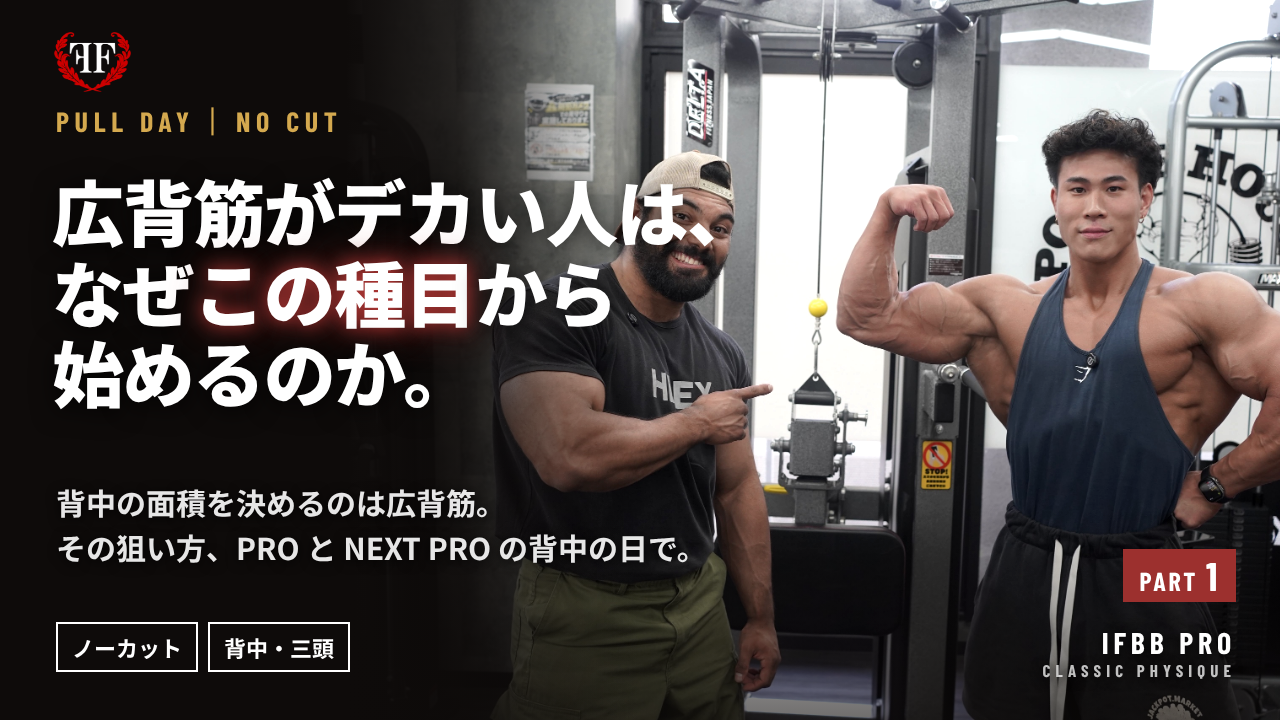
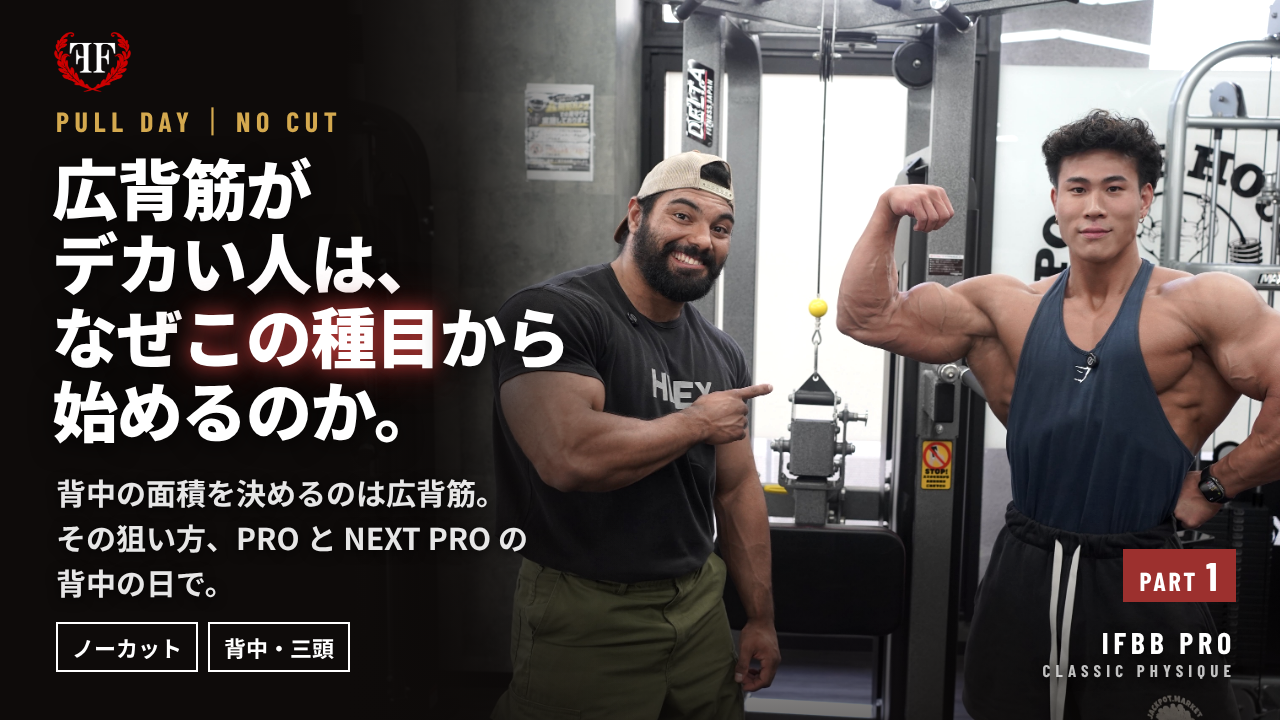
PULL DAY Part 1 thumbnail: clear Felipe's face (#78)
* Add UPPER DAY YouTube thumbnails (part 1, 2) and the series thumbnail template

Claude-Session: https://claude.ai/code/session_01HRty6kL8VRnpLHHHzSF3iS

* UPPER DAY thumbnails: reframe to keep the face visible and hide the burned-in caption

Claude-Session: https://claude.ai/code/session_01HRty6kL8VRnpLHHHzSF3iS

* UPPER DAY thumbnails v2: loud yellow/red creator style, distinct from the community look

Claude-Session: https://claude.ai/code/session_01HRty6kL8VRnpLHHHzSF3iS

* UPPER DAY thumbnails v3: competition roar photo plus gym face chip

Claude-Session: https://claude.ai/code/session_01HRty6kL8VRnpLHHHzSF3iS

* UPPER DAY thumbnails: soften hook to Felipe's voice

Claude-Session: https://claude.ai/code/session_01HRty6kL8VRnpLHHHzSF3iS

* UPPER DAY thumbnails: keep the hook line on one row

Claude-Session: https://claude.ai/code/session_01HRty6kL8VRnpLHHHzSF3iS

* UPPER DAY thumbnails: hook label on one line

Claude-Session: https://claude.ai/code/session_01HRty6kL8VRnpLHHHzSF3iS

* UPPER DAY thumbnails on the brand guide: FF black base, white type, laurel red as the single accent, gym press photo; add visual identity PDF

Claude-Session: https://claude.ai/code/session_01HRty6kL8VRnpLHHHzSF3iS

* UPPER DAY thumbnail: three promise-led headline variants on the brand template

Claude-Session: https://claude.ai/code/session_01HRty6kL8VRnpLHHHzSF3iS

* Add post-live story images (thanks + next live 11/23) and story template
[…]

Changed region(s): [[0.0312, 0.2139, 0.5625, 0.6111], [0.0312, 0.6417, 0.5312, 0.825]]

diff --git a/assets/yt/pullday-thumb-template.html b/assets/yt/pullday-thumb-template.html
@@ -8,9 +8,9 @@ body{font-family:"NS",sans-serif;color:#fff;position:relative}
 .fade{position:absolute;inset:0;background:linear-gradient(90deg,#0E0B0A 0%,#0E0B0A 27%,rgba(14,11,10,.85) 36%,rgba(14,11,10,.3) 44%,rgba(14,11,10,0) 50%),linear-gradient(180deg,rgba(14,11,10,0) 70%,rgba(14,11,10,.6) 100%)}
 .logo{position:absolute;left:52px;top:30px;height:64px}
 .lbl{position:absolute;left:56px;top:104px;font-family:"BC",sans-serif;font-size:28px;letter-spacing:.2em;color:#D4A94F}
-.h{position:absolute;left:52px;top:170px;font-size:72px;font-weight:900;line-height:1.12;letter-spacing:-.02em;text-shadow:0 4px 24px rgba(0,0,0,.8)}
+.h{position:absolute;left:52px;top:150px;font-size:66px;font-weight:900;line-height:1.12;letter-spacing:-.02em;text-shadow:0 4px 24px rgba(0,0,0,.8)}
 .h em{font-style:normal;color:#fff;text-shadow:0 0 18px rgba(185,58,56,.95),0 0 40px rgba(185,58,56,.6),0 4px 24px rgba(0,0,0,.8)}
-.sub{position:absolute;left:56px;top:480px;font-size:30px;font-weight:700;color:rgba(255,255,255,.9);line-height:1.5;text-shadow:0 2px 12px rgba(0,0,0,.9)}
+.sub{position:absolute;left:56px;top:470px;font-size:30px;font-weight:700;color:rgba(255,255,255,.9);line-height:1.5;text-shadow:0 2px 12px rgba(0,0,0,.9)}
 .tag{position:absolute;left:56px;bottom:48px;display:flex;gap:10px}
 .tag span{font-size:22px;font-weight:700;border:2px solid #fff;padding:7px 14px}
 .part{position:absolute;right:44px;bottom:118px;background:#9C302E;font-family:"BC",sans-serif;font-size:26px;letter-spacing:.1em;padding:8px 16px;line-height:1;display:flex;align-items:baseline;gap:8px}
@@ -21,7 +21,7 @@ body{font-family:"NS",sans-serif;color:#fff;position:relative}
 <div class="bg"></div><div class="fade"></div>
 <img class="logo" src="logo.png" alt="">
 <p class="lbl">PULL DAY ｜ NO CUT</p>
-<p class="h">広背筋がデカい人は、<br>なぜ<em>この種目</em>から<br>始めるのか。</p><p class="sub">背中の面積を決めるのは広背筋。<br>その狙い方、PRO と NEXT PRO の背中の日で。</p>
+<p class="h">広背筋が<br>デカい人は、<br>なぜ<em>この種目</em>から<br>始めるのか。</p><p class="sub">背中の面積を決めるのは広背筋。<br>その狙い方、PRO と NEXT PRO の<br>背中の日で。</p>
 <div class="tag"><span>ノーカット</span><span>背中・三頭</span></div>
 <div class="part">PART<b>1</b></div>
 <p class="pro">IFBB PRO<small>CLASSIC PHYSIQUE</small></p>
